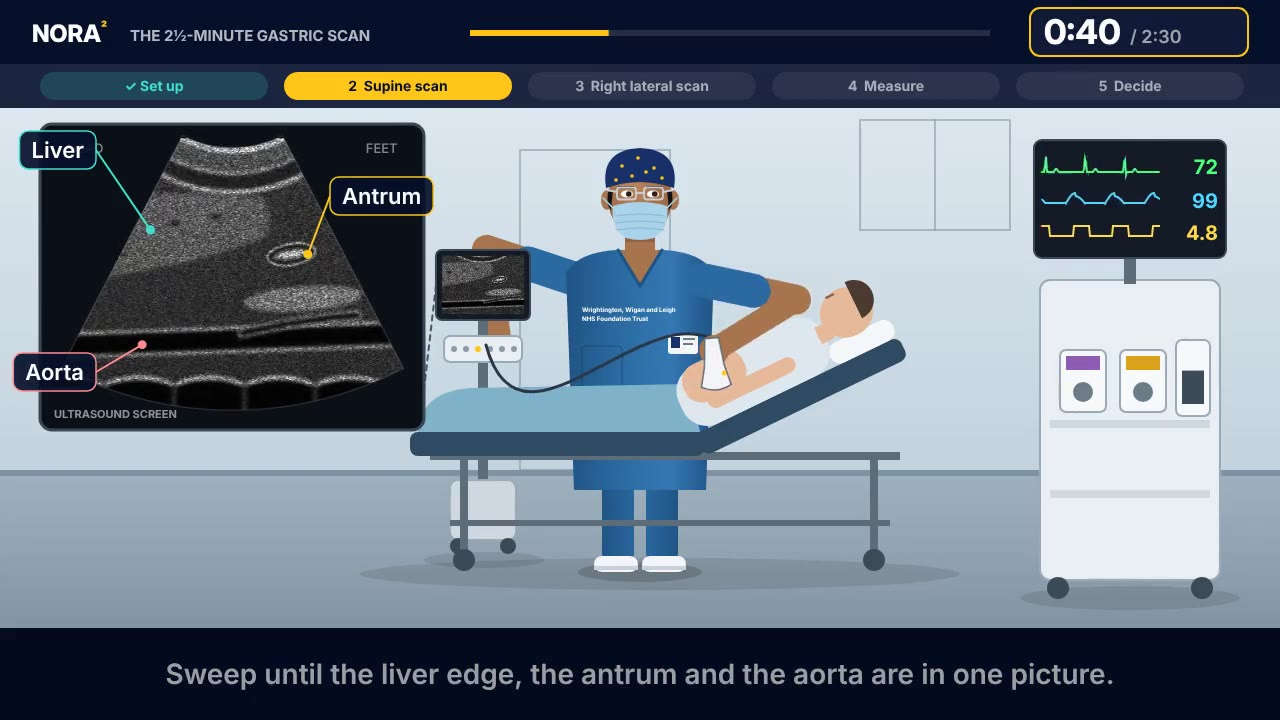
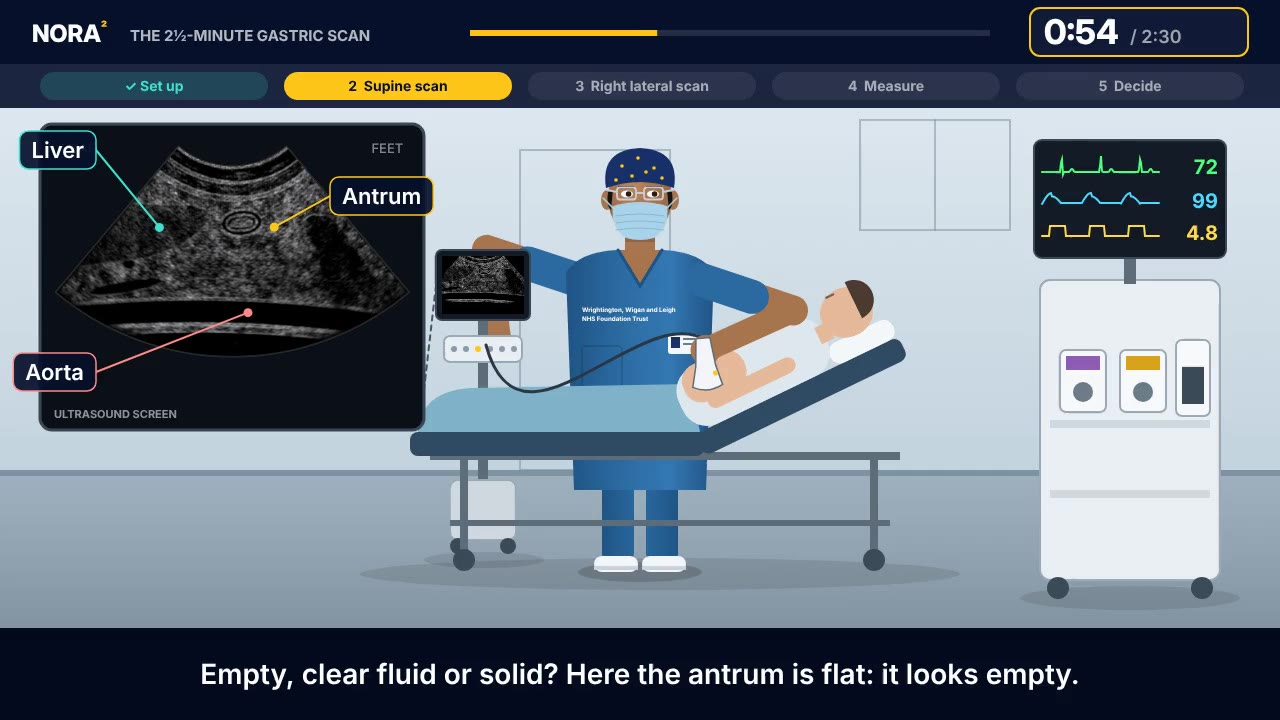
Gastric videos: new poster frames; narration scripts as a separate file
Claude-Session: https://claude.ai/code/session_01B8idMasWmsAZ9GiYhv9ypC

diff --git a/gastric-videos.html b/gastric-videos.html
@@ -22,7 +22,7 @@
 <body data-page="pocus">
 <div id="site-header"></div>
 <main>
-<div class="wrap"><div class="pagehead"><p class="crumb"><a href="index.html">Home</a> / <a href="pocus.html">POCUS</a> / <a href="pocus-gastric.html">Gastric</a> / Video tutorial</p><h1>Gastric ultrasound: how to scan</h1><p class="lede">A four-minute animated tutorial: probe, position, landmarks, what the antrum looks like, grading, measuring and the decision.</p><div class="cta"><a class="btn y" href="pocus-gastric.html">Gastric guide</a> <a class="btn" href="gastric-summary.html">Combined summary</a> <a class="btn" href="gastric-videos.html">Video tutorial</a> <a class="btn" href="gastric-populations.html">Patient groups</a> <a class="btn" href="gastric-calculator.html">Volume calculator</a> <a class="btn" href="gastric-quiz.html">Quiz</a> <a class="btn" href="gastric-evidence.html">Evidence summary</a> <a class="btn" href="gastric-publications.html">Publications</a> <a class="btn" href="gastric-research.html">Ongoing research</a> <a class="btn" href="gastric-references.html">References</a></div><p style="margin-top:10px"><b>Draft for clinical sign-off.</b> Compiled 20 November 2026 by Dr Arun Mohanraj FRCA EDRA, Wrightington, Wigan and Leigh NHS Foundation Trust.</p></div></div><section style="padding-top:40px"><div class="wrap"><div class="vframe"><video id="gv-video" controls preload="metadata" playsinline poster="media/video/gastric-ultrasound-how-to-scan.jpg"><source src="media/video/gastric-ultrasound-how-to-scan.mp4?v=2" type="video/mp4"><track kind="captions" srclang="en" label="English" src="media/video/gastric-ultrasound-how-to-scan.en.vtt?v=2" default></video></div><div class="chapters"><button type="button" class="chap" data-seek="0.1"><span>0:00</span>Gastric ultrasound</button><button type="button" class="chap" data-seek="11.7"><span>0:11</span>Why scan</button><button type="button" class="chap" data-seek="32.3"><span>0:32</span>Set up</button><button type="button" class="chap" data-seek="50.8"><span>0:50</span>Probe position</button><button type="button" class="chap" data-seek="66.6"><span>1:06</span>Find the antrum</button><button type="button" class="chap" data-seek="92.4"><span>1:32</span>Right lateral position</button><button type="button" class="chap" data-seek="113.1"><span>1:53</span>What you see</button><button type="button" class="chap" data-seek="148.2"><span>2:28</span>Grade clear fluid</button><button type="button" class="chap" data-seek="171.7"><span>2:51</span>Measure the volume</button><button type="button" class="chap" data-seek="199.3"><span>3:19</span>From scan to decision</button><button type="button" class="chap" data-seek="222.2"><span>3:42</span>Learning the scan</button></div><p class="note">Captions are on by default, so the video can be followed without sound. Every figure in the video is referenced below.</p></div></section><section class="band ink"><div class="wrap"><div class="head"><p class="eyebrow"><span class="dot"></span>Against the clock</p><h2>The 2½-minute gastric scan</h2><p class="lede">One patient, one question, two positions.</p></div><div class="vframe"><video controls preload="metadata" playsinline poster="media/video/gastric-scan-in-150-seconds.jpg"><source src="media/video/gastric-scan-in-150-seconds.mp4?v=2" type="video/mp4"><track kind="captions" srclang="en" label="English" src="media/video/gastric-scan-in-150-seconds.en.vtt?v=2" default></video></div><p class="note">An illustrated run-through in the anaesthetic room, with the clock running: set up, supine scan, right lateral scan, measure, decide. The timings are illustrative. The worked example uses the adult volume model.<a class="cite" href="#ref-3">3</a></p></div></section><section><div class="wrap"><div class="head"><p class="eyebrow"><span class="dot"></span>Transcript</p><h2>What the tutorial says</h2></div><div class="doc" style="grid-template-columns:1fr"><article><section><h3>0:00 · Gastric ultrasound</h3><p>A bedside scan that takes about two and a half minutes and answers one question. Is this stomach empty?</p></section><section><h3>0:11 · Why scan</h3><p>A fasting history is not always reliable. Of 538 fasted elective patients, 6.2% had a full stomach on ultrasound. In another study, a full stomach was found in 56% of emergency cases.</p></section><section><h3>0:32 · Set up</h3><p>Adults: curved low-frequency probe (1 to 5 MHz), abdominal preset. Children under 40 kg: linear high-frequency probe (5 to 12 MHz). Start supine or semi-recumbent.</p></section><section><h3>0:50 · Probe position</h3><p>Epigastrium, just below the xiphisternum, sagittal plane. Perpendicular to the skin, marker towards the head. Sweep across from the left costal margin.</p></section><section><h3>1:06 · Find the antrum</h3><p>Find the antrum. Left lobe of the liver: its lower edge. The antrum, in cross-section. Behind it, the pancreas. Deeper: the aorta in long axis, in front of the spine. Standard plane: the antrum at the level of the aorta.</p></section><section><h3>1:32 · Right lateral position</h3><p>Turn the patient onto the right side. Gravity moves the contents to the antrum: the more sensitive view. Only call a stomach empty after looking in this position. If turning is not practical: semi-recumbent.</p></section><section><h3>1:53 · What you see</h3><p>Empty: small, flat, thick-walled. The bull’s eye. Clear fluid: round, thin-walled, dark inside. Air bubbles give a starry night. Thick fluid, such as milk: uniformly bright. Solid, early: frosted glass that hides the deeper structures. Solid, later: mixed bright content in a distended antrum.</p></section><section><h3>2:28 · Grade clear fluid</h3><p>When the content is clear fluid, grade it. Grade 0: empty in both positions. Grade 1: fluid only in the right lateral position. Low volume. Grade 2: fluid in both positions. Likely 1.5 mL/kg or more.</p></section><section><h3>2:51 · Measure the volume</h3><p>Freeze in the right lateral position, between contractions. Trace the serosa all the way round. Mean of three readings. Volume (mL) = 27 + 14.6 × area (cm²) − 1.28 × age (years).</p></section><section><h3>3:19 · From scan to decision</h3><p>Empty, or clear fluid below 1.5 mL/kg: consistent with a fasted stomach. Clear fluid at or above 1.5 mL/kg, or any thick fluid or solid: full stomach. The scan informs the plan. You decide with the whole patient in mind.</p></section><section><h3>3:42 · Learning the scan</h3><p>How many scans does it take to learn? About 33 supervised examinations for a 95% success rate (Arzola 2013). Start counting.</p></section></article></div></div></section><section class="band ink"><div class="wrap"><div class="head"><p class="eyebrow"><span class="dot"></span>More to come</p><h2>Scanning videos</h2></div><div class="grid g3"><div class="tile region r-abdo"><span class="n">Video to be added</span><div><h3>Bedside demonstration</h3><p style="margin-top:8px">A complete scan on a patient, in real time, with the monitors attached.</p></div></div><div class="tile region r-abdo"><span class="n">Video to be added</span><div><h3>Empty, clear fluid and solid</h3><p style="margin-top:8px">The three appearances side by side, supine and right lateral.</p></div></div><div class="tile region r-abdo"><span class="n">Video to be added</span><div><h3>Measuring the antral area</h3><p style="margin-top:8px">Free tracing and the two-diameter method on real images.</p></div></div></div></div></section><section><div class="wrap"><h2>References</h2><ol class="refs"><li id="ref-1">El-Boghdadly K, Wojcikiewicz T, Perlas A. Perioperative point-of-care gastric ultrasound. BJA Educ 2019; 19: 219-26. <a href="https://doi.org/10.1016/j.bjae.2019.03.003" target="_blank" rel="noopener">https://doi.org/10.1016/j.bjae.2019.03.003</a></li><li id="ref-2">Perlas A, Davis L, Khan M, et al. Gastric sonography in the fasted surgical patient: a prospective descriptive study. Anesth Analg 2011; 113: 93-7. <a href="https://doi.org/10.1213/ANE.0b013e31821b98c0" target="_blank" rel="noopener">https://doi.org/10.1213/ANE.0b013e31821b98c0</a></li><li id="ref-3">Perlas A, Mitsakakis N, Liu L, et al. Validation of a mathematical model for ultrasound assessment of gastric volume by gastroscopic examination. Anesth Analg 2013; 116: 357-63. <a href="https://doi.org/10.1213/ANE.0b013e318274fc19" target="_blank" rel="noopener">https://doi.org/10.1213/ANE.0b013e318274fc19</a></li><li id="ref-4">Van de Putte P, Vernieuwe L, Jerjir A, et al. When fasted is not empty: a retrospective cohort study of gastric content in fasted surgical patients. Br J Anaesth 2017; 118: 363-71. <a href="https://doi.org/10.1093/bja/aew435" target="_blank" rel="noopener">https://doi.org/10.1093/bja/aew435</a></li><li id="ref-5">Bouvet L, Desgranges FP, Aubergy C, et al. Prevalence and factors predictive of full stomach in elective and emergency surgical patients: a prospective cohort study. Br J Anaesth 2017; 118: 372-9. <a href="https://doi.org/10.1093/bja/aew462" target="_blank" rel="noopener">https://doi.org/10.1093/bja/aew462</a></li><li id="ref-6">Arzola C, Carvalho JC, Cubillos J, Ye XY, Perlas A. Anesthesiologists’ learning curves for bedside qualitative ultrasound assessment of gastric content: a cohort study. Can J Anaesth 2013; 60: 771-9. <a href="https://doi.org/10.1007/s12630-013-9974-y" target="_blank" rel="noopener">https://doi.org/10.1007/s12630-013-9974-y</a></li></ol></div></section><script src="assets/gastric-live.js?v=62" defer></script>
+<div class="wrap"><div class="pagehead"><p class="crumb"><a href="index.html">Home</a> / <a href="pocus.html">POCUS</a> / <a href="pocus-gastric.html">Gastric</a> / Video tutorial</p><h1>Gastric ultrasound: how to scan</h1><p class="lede">A four-minute animated tutorial: probe, position, landmarks, what the antrum looks like, grading, measuring and the decision.</p><div class="cta"><a class="btn y" href="pocus-gastric.html">Gastric guide</a> <a class="btn" href="gastric-summary.html">Combined summary</a> <a class="btn" href="gastric-videos.html">Video tutorial</a> <a class="btn" href="gastric-populations.html">Patient groups</a> <a class="btn" href="gastric-calculator.html">Volume calculator</a> <a class="btn" href="gastric-quiz.html">Quiz</a> <a class="btn" href="gastric-evidence.html">Evidence summary</a> <a class="btn" href="gastric-publications.html">Publications</a> <a class="btn" href="gastric-research.html">Ongoing research</a> <a class="btn" href="gastric-references.html">References</a></div><p style="margin-top:10px"><b>Draft for clinical sign-off.</b> Compiled 20 November 2026 by Dr Arun Mohanraj FRCA EDRA, Wrightington, Wigan and Leigh NHS Foundation Trust.</p></div></div><section style="padding-top:40px"><div class="wrap"><div class="vframe"><video id="gv-video" controls preload="metadata" playsinline poster="media/video/gastric-ultrasound-how-to-scan.jpg?v=2"><source src="media/video/gastric-ultrasound-how-to-scan.mp4?v=2" type="video/mp4"><track kind="captions" srclang="en" label="English" src="media/video/gastric-ultrasound-how-to-scan.en.vtt?v=2" default></video></div><div class="chapters"><button type="button" class="chap" data-seek="0.1"><span>0:00</span>Gastric ultrasound</button><button type="button" class="chap" data-seek="11.7"><span>0:11</span>Why scan</button><button type="button" class="chap" data-seek="32.3"><span>0:32</span>Set up</button><button type="button" class="chap" data-seek="50.8"><span>0:50</span>Probe position</button><button type="button" class="chap" data-seek="66.6"><span>1:06</span>Find the antrum</button><button type="button" class="chap" data-seek="92.4"><span>1:32</span>Right lateral position</button><button type="button" class="chap" data-seek="113.1"><span>1:53</span>What you see</button><button type="button" class="chap" data-seek="148.2"><span>2:28</span>Grade clear fluid</button><button type="button" class="chap" data-seek="171.7"><span>2:51</span>Measure the volume</button><button type="button" class="chap" data-seek="199.3"><span>3:19</span>From scan to decision</button><button type="button" class="chap" data-seek="222.2"><span>3:42</span>Learning the scan</button></div><p class="note">Captions are on by default, so the video can be followed without sound. Every figure in the video is referenced below.</p></div></section><section class="band ink"><div class="wrap"><div class="head"><p class="eyebrow"><span class="dot"></span>Against the clock</p><h2>The 2½-minute gastric scan</h2><p class="lede">One patient, one question, two positions.</p></div><div class="vframe"><video controls preload="metadata" playsinline poster="media/video/gastric-scan-in-150-seconds.jpg?v=2"><source src="media/video/gastric-scan-in-150-seconds.mp4?v=2" type="video/mp4"><track kind="captions" srclang="en" label="English" src="media/video/gastric-scan-in-150-seconds.en.vtt?v=2" default></video></div><p class="note">An illustrated run-through in the anaesthetic room, with the clock running: set up, supine scan, right lateral scan, measure, decide. The timings are illustrative. The worked example uses the adult volume model.<a class="cite" href="#ref-3">3</a></p></div></section><section><div class="wrap"><div class="head"><p class="eyebrow"><span class="dot"></span>Transcript</p><h2>What the tutorial says</h2></div><div class="doc" style="grid-template-columns:1fr"><article><section><h3>0:00 · Gastric ultrasound</h3><p>A bedside scan that takes about two and a half minutes and answers one question. Is this stomach empty?</p></section><section><h3>0:11 · Why scan</h3><p>A fasting history is not always reliable. Of 538 fasted elective patients, 6.2% had a full stomach on ultrasound. In another study, a full stomach was found in 56% of emergency cases.</p></section><section><h3>0:32 · Set up</h3><p>Adults: curved low-frequency probe (1 to 5 MHz), abdominal preset. Children under 40 kg: linear high-frequency probe (5 to 12 MHz). Start supine or semi-recumbent.</p></section><section><h3>0:50 · Probe position</h3><p>Epigastrium, just below the xiphisternum, sagittal plane. Perpendicular to the skin, marker towards the head. Sweep across from the left costal margin.</p></section><section><h3>1:06 · Find the antrum</h3><p>Find the antrum. Left lobe of the liver: its lower edge. The antrum, in cross-section. Behind it, the pancreas. Deeper: the aorta in long axis, in front of the spine. Standard plane: the antrum at the level of the aorta.</p></section><section><h3>1:32 · Right lateral position</h3><p>Turn the patient onto the right side. Gravity moves the contents to the antrum: the more sensitive view. Only call a stomach empty after looking in this position. If turning is not practical: semi-recumbent.</p></section><section><h3>1:53 · What you see</h3><p>Empty: small, flat, thick-walled. The bull’s eye. Clear fluid: round, thin-walled, dark inside. Air bubbles give a starry night. Thick fluid, such as milk: uniformly bright. Solid, early: frosted glass that hides the deeper structures. Solid, later: mixed bright content in a distended antrum.</p></section><section><h3>2:28 · Grade clear fluid</h3><p>When the content is clear fluid, grade it. Grade 0: empty in both positions. Grade 1: fluid only in the right lateral position. Low volume. Grade 2: fluid in both positions. Likely 1.5 mL/kg or more.</p></section><section><h3>2:51 · Measure the volume</h3><p>Freeze in the right lateral position, between contractions. Trace the serosa all the way round. Mean of three readings. Volume (mL) = 27 + 14.6 × area (cm²) − 1.28 × age (years).</p></section><section><h3>3:19 · From scan to decision</h3><p>Empty, or clear fluid below 1.5 mL/kg: consistent with a fasted stomach. Clear fluid at or above 1.5 mL/kg, or any thick fluid or solid: full stomach. The scan informs the plan. You decide with the whole patient in mind.</p></section><section><h3>3:42 · Learning the scan</h3><p>How many scans does it take to learn? About 33 supervised examinations for a 95% success rate (Arzola 2013). Start counting.</p></section></article></div></div></section><section class="band ink"><div class="wrap"><div class="head"><p class="eyebrow"><span class="dot"></span>More to come</p><h2>Scanning videos</h2></div><div class="grid g3"><div class="tile region r-abdo"><span class="n">Video to be added</span><div><h3>Bedside demonstration</h3><p style="margin-top:8px">A complete scan on a patient, in real time, with the monitors attached.</p></div></div><div class="tile region r-abdo"><span class="n">Video to be added</span><div><h3>Empty, clear fluid and solid</h3><p style="margin-top:8px">The three appearances side by side, supine and right lateral.</p></div></div><div class="tile region r-abdo"><span class="n">Video to be added</span><div><h3>Measuring the antral area</h3><p style="margin-top:8px">Free tracing and the two-diameter method on real images.</p></div></div></div></div></section><section><div class="wrap"><h2>References</h2><ol class="refs"><li id="ref-1">El-Boghdadly K, Wojcikiewicz T, Perlas A. Perioperative point-of-care gastric ultrasound. BJA Educ 2019; 19: 219-26. <a href="https://doi.org/10.1016/j.bjae.2019.03.003" target="_blank" rel="noopener">https://doi.org/10.1016/j.bjae.2019.03.003</a></li><li id="ref-2">Perlas A, Davis L, Khan M, et al. Gastric sonography in the fasted surgical patient: a prospective descriptive study. Anesth Analg 2011; 113: 93-7. <a href="https://doi.org/10.1213/ANE.0b013e31821b98c0" target="_blank" rel="noopener">https://doi.org/10.1213/ANE.0b013e31821b98c0</a></li><li id="ref-3">Perlas A, Mitsakakis N, Liu L, et al. Validation of a mathematical model for ultrasound assessment of gastric volume by gastroscopic examination. Anesth Analg 2013; 116: 357-63. <a href="https://doi.org/10.1213/ANE.0b013e318274fc19" target="_blank" rel="noopener">https://doi.org/10.1213/ANE.0b013e318274fc19</a></li><li id="ref-4">Van de Putte P, Vernieuwe L, Jerjir A, et al. When fasted is not empty: a retrospective cohort study of gastric content in fasted surgical patients. Br J Anaesth 2017; 118: 363-71. <a href="https://doi.org/10.1093/bja/aew435" target="_blank" rel="noopener">https://doi.org/10.1093/bja/aew435</a></li><li id="ref-5">Bouvet L, Desgranges FP, Aubergy C, et al. Prevalence and factors predictive of full stomach in elective and emergency surgical patients: a prospective cohort study. Br J Anaesth 2017; 118: 372-9. <a href="https://doi.org/10.1093/bja/aew462" target="_blank" rel="noopener">https://doi.org/10.1093/bja/aew462</a></li><li id="ref-6">Arzola C, Carvalho JC, Cubillos J, Ye XY, Perlas A. Anesthesiologists’ learning curves for bedside qualitative ultrasound assessment of gastric content: a cohort study. Can J Anaesth 2013; 60: 771-9. <a href="https://doi.org/10.1007/s12630-013-9974-y" target="_blank" rel="noopener">https://doi.org/10.1007/s12630-013-9974-y</a></li></ol></div></section><script src="assets/gastric-live.js?v=62" defer></script>
 </main>
 <div id="site-footer"></div>
 
